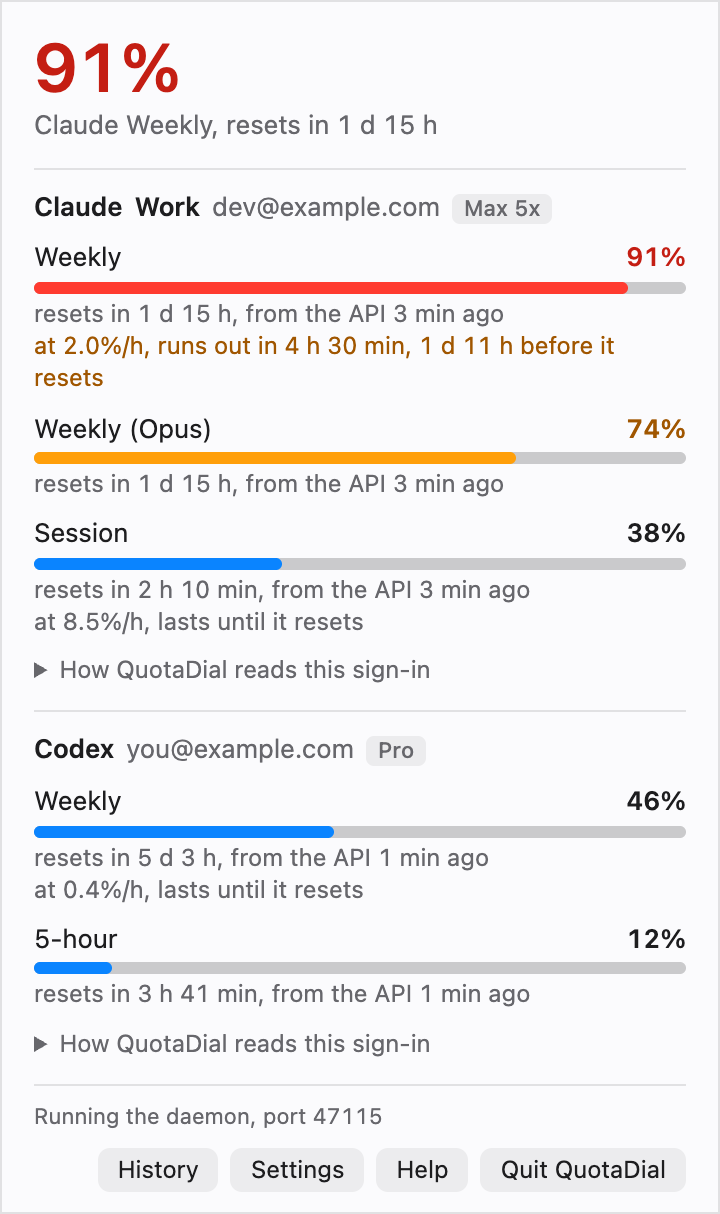
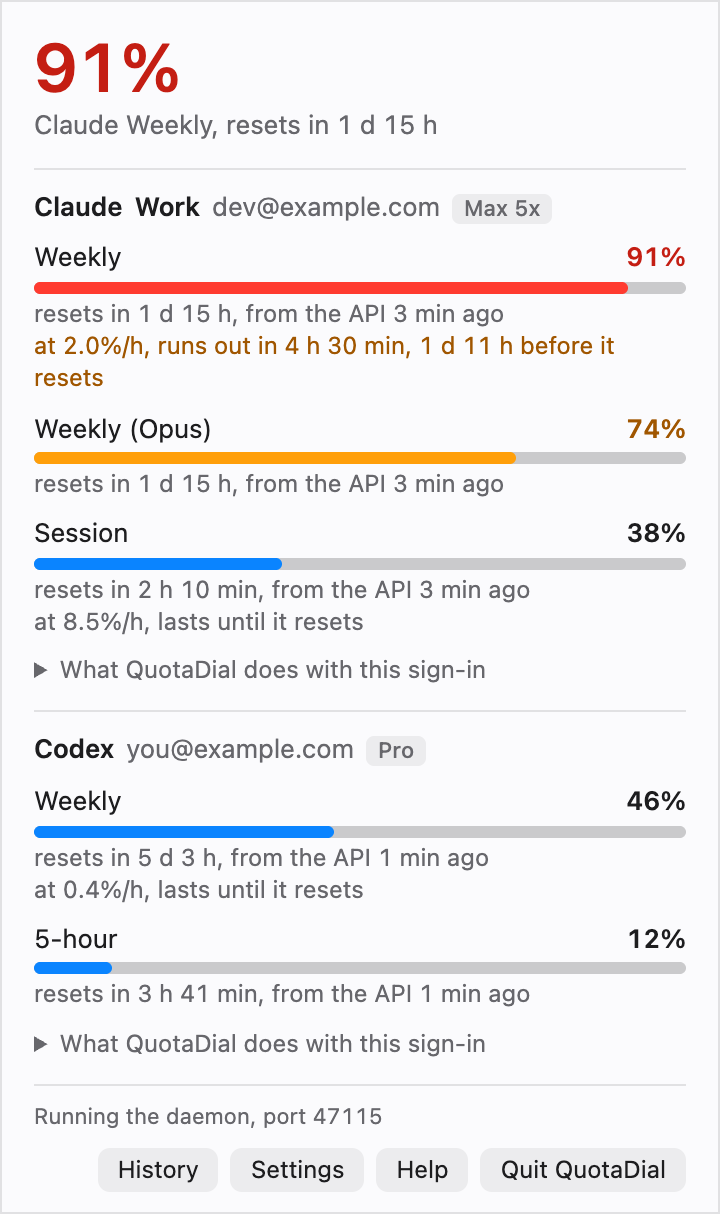
feat(app): the sign-in panel's heading is true of every account, and an account that says nothing has none (P-020)
The manager's rule 2 on #73: "How QuotaDial reads this sign-in" is
untrue of an account whose sign-in QuotaDial does not read, such as
Gemini CLI's. The panel is now "What QuotaDial does with this sign-in",
over each provider's own sentence. An account from an older daemon,
which says nothing of its sign-in, shows no panel until the next poll.

- The window check's fixtures gain a Gemini CLI account, unsupported,
  whose panel says Gemini CLI's sentence rather than Claude's, and the
  Free copy shows Codex's account as an older daemon sends it, with no
  panel (rule 5). The check passed 3385 checks over 16 views here.
- docs/ACCESSIBILITY.md names the disclosure by its new heading.
- The site's two pictures of the accounts are captured again with
  `node scripts/app-pictures.mjs`, so they show the heading the app
  has; the settings pictures came out the same, byte for byte, and the
  history pictures, which no page uses, are left as they were.

Changed region(s): [[0.0917, 0.8534, 0.6722, 0.8839], [0.0917, 0.5486, 0.6722, 0.5791]]

diff --git a/apps/tray/src/app.tsx b/apps/tray/src/app.tsx
@@ -201,10 +201,12 @@ function AccountSection({ account, index }: { account: Account; index: number })
         </ul>
       )}
       {account.extra_usage && <p class="extra">Extra usage: {account.extra_usage}</p>}
-      <details class="sign-in">
-        <summary>How QuotaDial reads this sign-in</summary>
-        <p>{account.sign_in}</p>
-      </details>
+      {account.sign_in && (
+        <details class="sign-in">
+          <summary>What QuotaDial does with this sign-in</summary>
+          <p>{account.sign_in}</p>
+        </details>
+      )}
     </section>
   );
 }

diff --git a/apps/tray/src/meter.ts b/apps/tray/src/meter.ts
@@ -54,7 +54,8 @@ export interface Account {
   extra_usage: string | null;
   /** Why the status is not ok, naming the fix. */
   note: string | null;
-  /** What QuotaDial does with this account's sign-in, in its provider's words. */
+  /** What QuotaDial does with this account's sign-in, in its provider's words; empty for an account
+   * from an older daemon, which says none, and then the panel is left out. */
   sign_in: string;
 }
 

diff --git a/docs/ACCESSIBILITY.md b/docs/ACCESSIBILITY.md
@@ -21,8 +21,8 @@ support@quotadial.com.
 
 - Tab and Shift-Tab move through every control in the order it is shown, and each draws a blue
   ring while it has the focus.
-- Enter or Space presses a button, Space ticks or clears a box, and Enter opens or closes "How
-  QuotaDial reads this sign-in" and the other disclosures.
+- Enter or Space presses a button, Space ticks or clears a box, and Enter opens or closes "What
+  QuotaDial does with this sign-in" and the other disclosures.
 - History, Settings and Help open below the numbers and take the focus, so Tab carries on inside
   them. Done gives the focus back to the button that opened them.
 - Escape hides the window.
